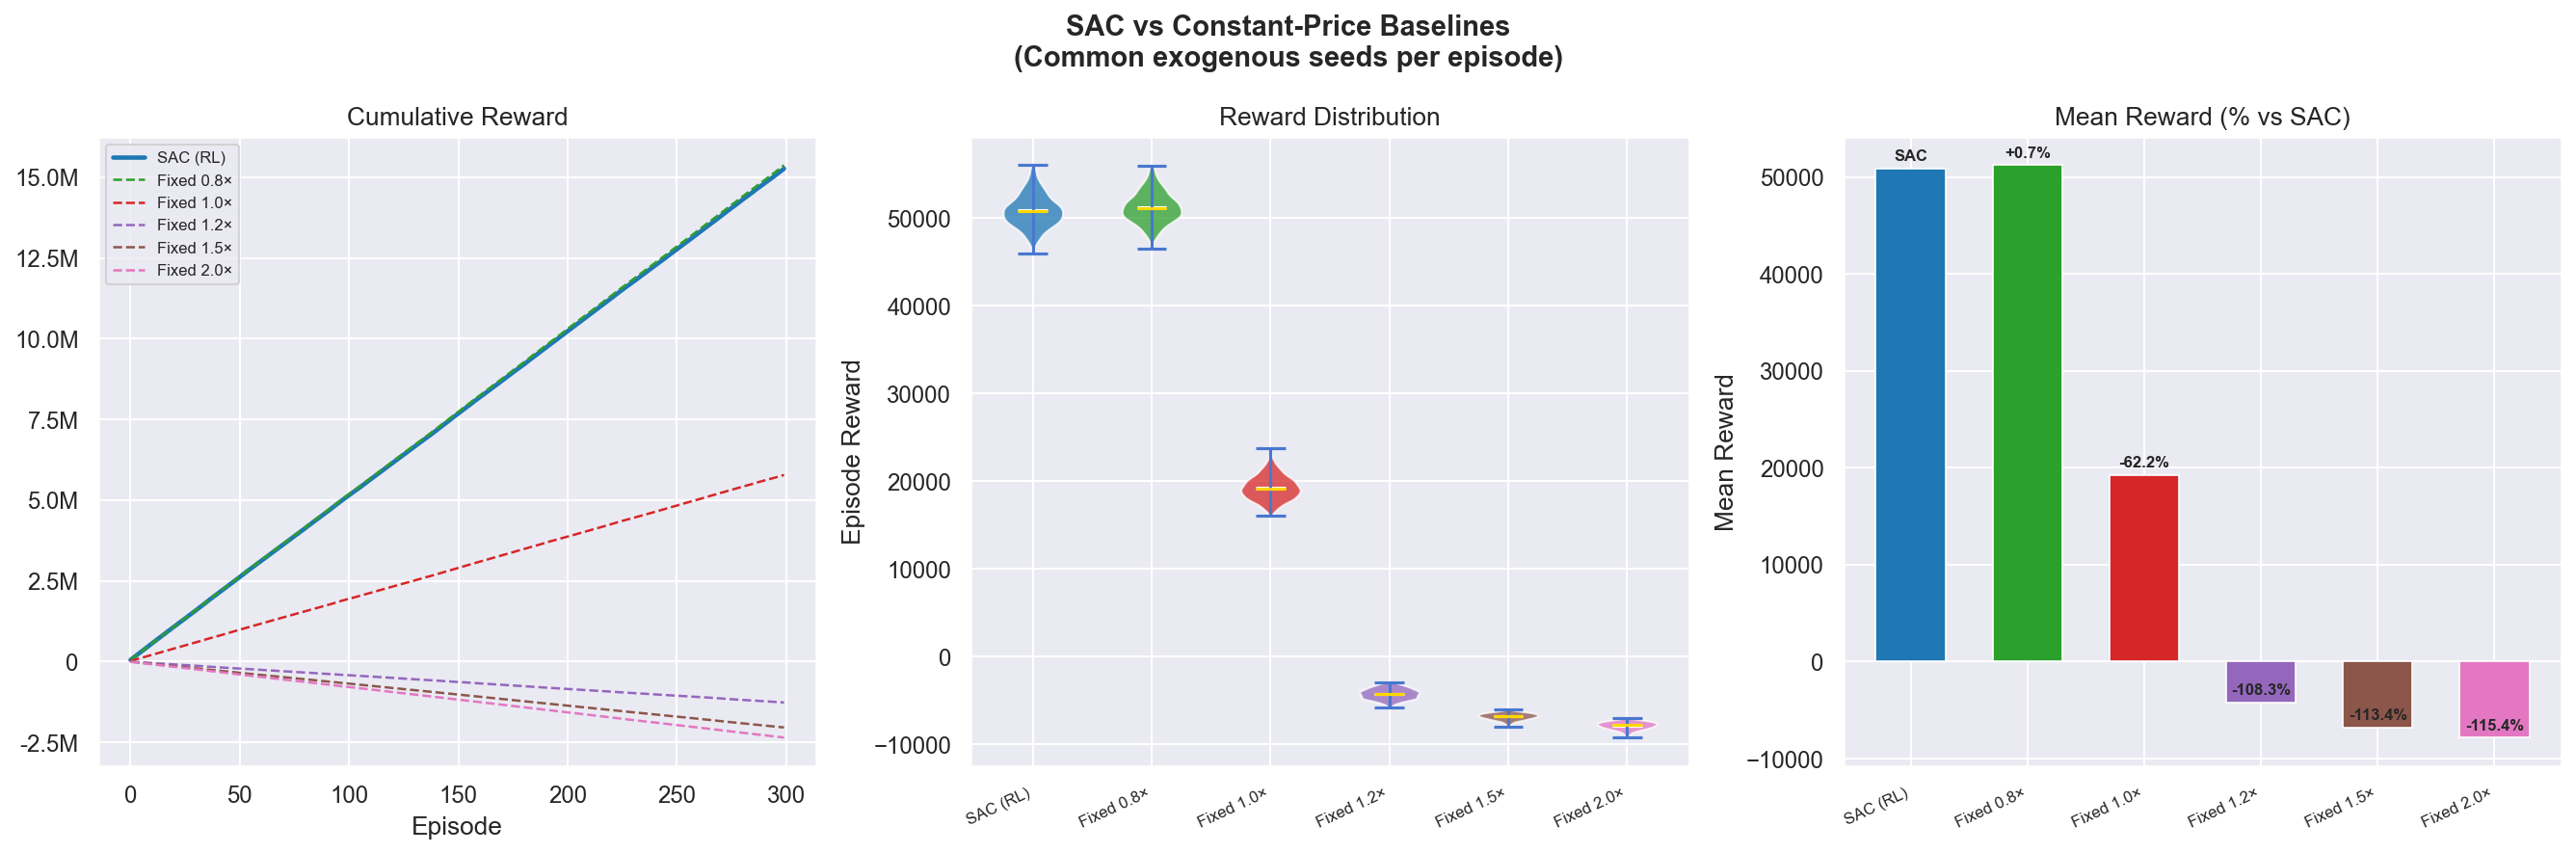
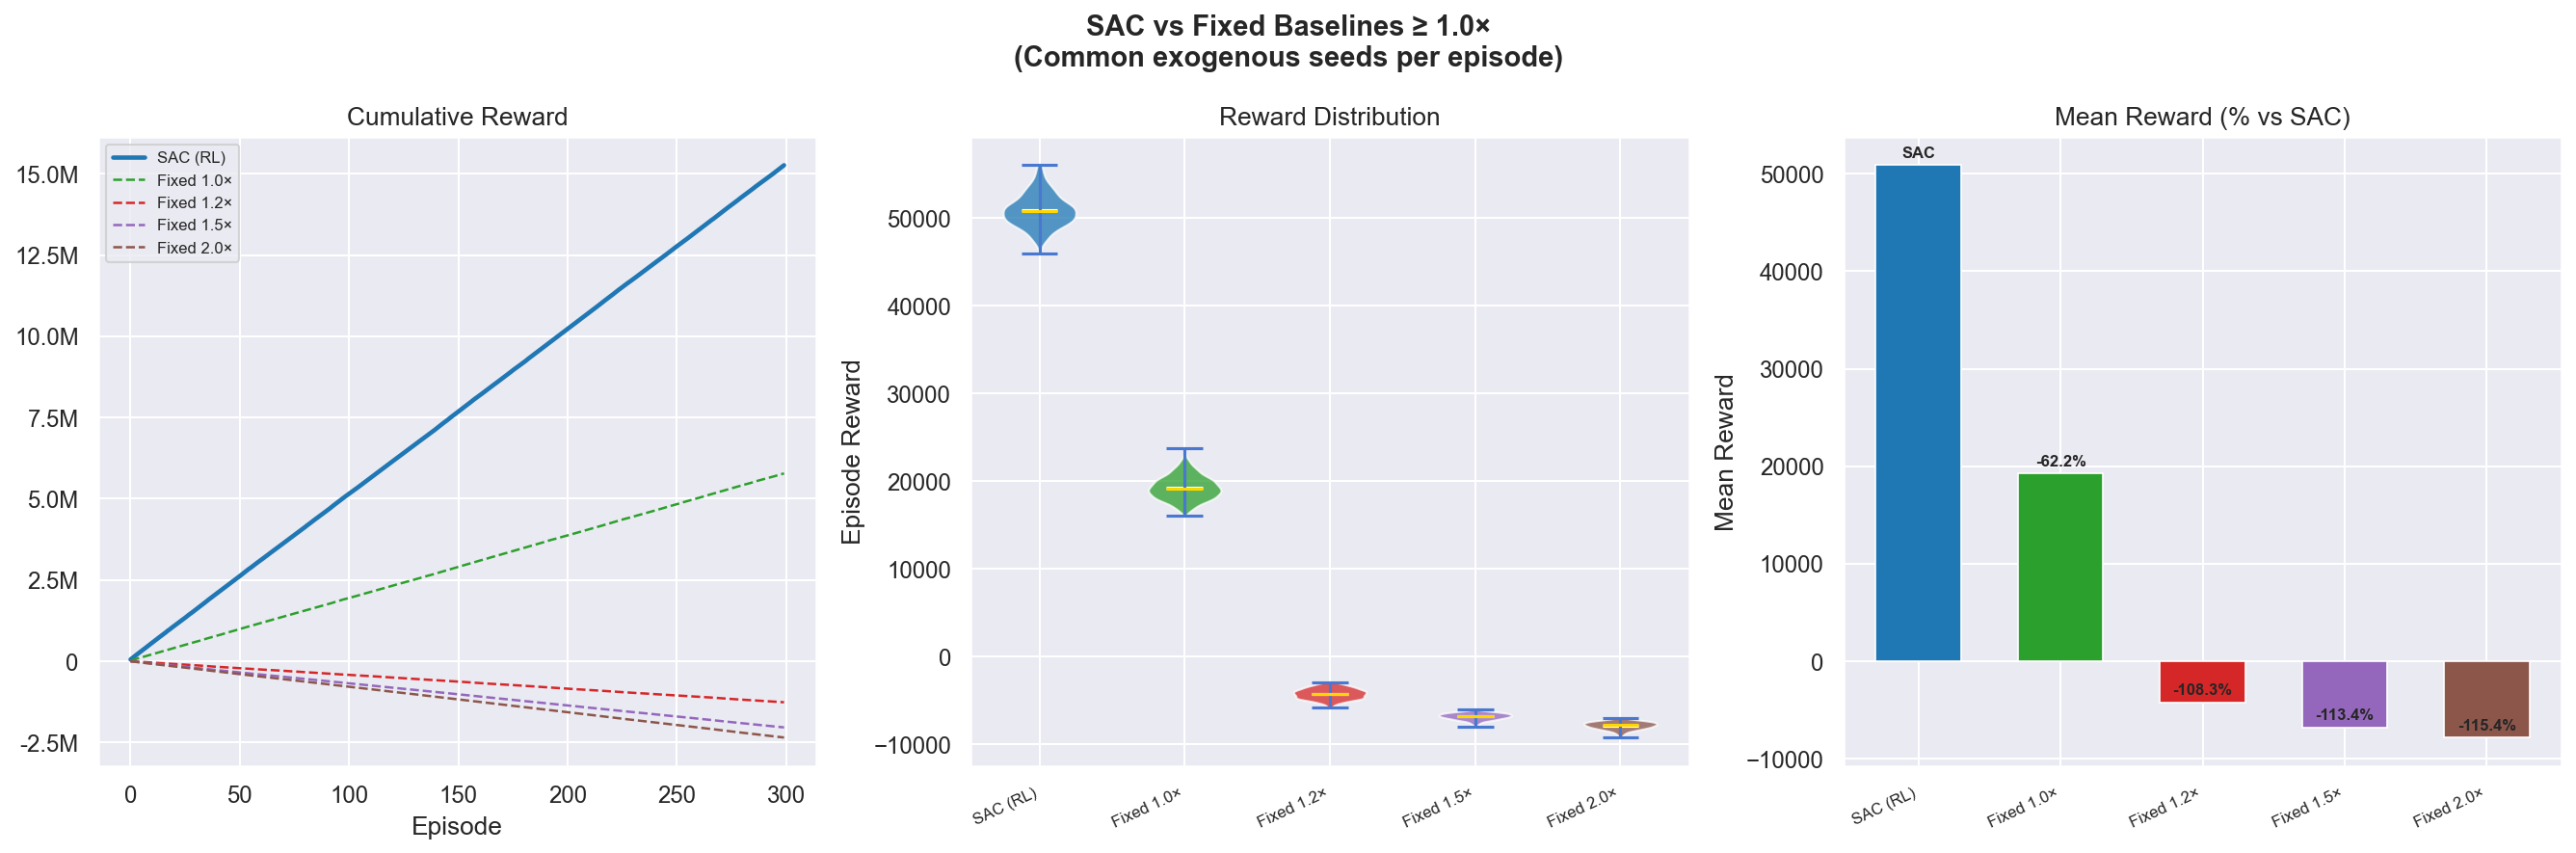
fix(benchmark): use 1.0x business reference

diff --git a/benchmark.py b/benchmark.py
@@ -55,6 +55,7 @@ def build_benchmark(
     checkpoint_path: str | None = None,
     checkpoint_updates: int | None = None,
     acceptance_floor: float = 0.60,
+    reference_label: str | None = None,
 ) -> dict:
     '''Summarise paired policy rollouts without hiding outcome trade-offs.'''
     strategies = {}
@@ -94,12 +95,20 @@ def build_benchmark(
 
     rl_label = next(label for label in results if 'SAC' in label)
     fixed_labels = [label for label in results if label != rl_label]
-    strongest_fixed = max(
-        fixed_labels,
-        key=lambda label: strategies[label]['objective_reward']['mean'],
-    )
+    if reference_label is None:
+        reference_label = next(
+            (label for label in fixed_labels if 'Fixed 1.0' in label),
+            max(
+                fixed_labels,
+                key=lambda label: strategies[label]['objective_reward']['mean'],
+            ),
+        )
+    if reference_label not in fixed_labels:
+        raise ValueError(
+            f'Business reference {reference_label!r} is not in benchmark results'
+        )
     rl = episode_metrics[rl_label]
-    baseline = episode_metrics[strongest_fixed]
+    baseline = episode_metrics[reference_label]
     reward_difference = rl['objective_reward'] - baseline['objective_reward']
 
     def _relative_percent(metric: str) -> float:
@@ -110,7 +119,7 @@ def build_benchmark(
 
     comparison = {
         'policy': rl_label,
-        'strongest_fixed_baseline': strongest_fixed,
+        'business_reference': reference_label,
         'paired_objective_reward_difference': _stats(reward_difference),
         'policy_win_rate': float(np.mean(reward_difference > 0.0)),
         'objective_reward_percent_difference': _relative_percent(
@@ -145,6 +154,12 @@ def build_benchmark(
                 'endogenous demand and supply trajectories.'
             ),
             'acceptance_floor': acceptance_floor,
+            'business_reference': reference_label,
+            'discount_baseline_policy': (
+                'Fixed prices below 1.0x are excluded from the published '
+                'comparison. The simulator reports gross revenue and has no '
+                'cost model for determining profit or loss.'
+            ),
         },
         'checkpoint': _checkpoint_metadata(
             checkpoint_path, checkpoint_updates
@@ -156,7 +171,7 @@ def build_benchmark(
             'torch': _package_version('torch'),
         },
         'strategies': strategies,
-        'comparison_to_strongest_fixed_baseline': comparison,
+        'comparison_to_business_reference': comparison,
         'interpretation': (
             'Reward is an engineered objective, not dollars or profit. '
             'Revenue and ride counts are simulated.'

diff --git a/tests/test_benchmark.py b/tests/test_benchmark.py
@@ -24,7 +24,9 @@ class BenchmarkTests(unittest.TestCase):
     def test_build_and_save_benchmark(self) -> None:
         results = {
             "SAC (RL)": [12.0, 18.0],
-            "Fixed 0.8x": [10.0, 10.0],
+            # Deliberately higher than 1.0x: an explicit business reference
+            # must not be replaced by a discounted policy with higher reward.
+            "Fixed 0.8x": [100.0, 100.0],
             "Fixed 1.0x": [15.0, 11.0],
         }
         detail = {
@@ -57,12 +59,13 @@ class BenchmarkTests(unittest.TestCase):
                 checkpoint_path=str(checkpoint),
                 checkpoint_updates=42,
                 acceptance_floor=0.60,
+                reference_label="Fixed 1.0x",
             )
 
-            comparison = summary["comparison_to_strongest_fixed_baseline"]
+            comparison = summary["comparison_to_business_reference"]
             self.assertEqual(comparison["policy"], "SAC (RL)")
             self.assertEqual(
-                comparison["strongest_fixed_baseline"], "Fixed 1.0x"
+                comparison["business_reference"], "Fixed 1.0x"
             )
             paired = comparison["paired_objective_reward_difference"]
             self.assertAlmostEqual(paired["mean"], 2.0)
@@ -116,6 +119,8 @@ class BenchmarkTests(unittest.TestCase):
         self.assertEqual(protocol["seed_end"], 501)
         self.assertTrue(protocol["deterministic_policy"])
         self.assertEqual(protocol["acceptance_floor"], 0.60)
+        self.assertEqual(protocol["business_reference"], "Fixed 1.0x")
+        self.assertIn("below 1.0x", protocol["discount_baseline_policy"])
         self.assertIn("Common exogenous RNG seeds", protocol["shared_randomness"])
 
         checkpoint_metadata = summary["checkpoint"]

diff --git a/evaluate.py b/evaluate.py
@@ -54,7 +54,11 @@ def compare_strategies(env, agent, prices=None, n_episodes=300, seed=7777):
     detail  : dict  {label: list of per-episode step dicts}
     """
     if prices is None:
-        prices = [0.8, 1.0, 1.2, 1.5, 2.0]
+        # Fixed 1.0x is the minimum admissible business reference. The
+        # simulator permits discounts below base fare, but those are excluded
+        # from the published comparison because no cost model is available to
+        # establish their commercial viability.
+        prices = [1.0, 1.2, 1.5, 2.0]
 
     results, detail = {}, {}
 

diff --git a/visualize.py b/visualize.py
@@ -233,7 +233,7 @@ def plot_strategy_comparison(results: dict, save_dir="results"):
               for i, l in enumerate(labels)}
 
     fig, axes = plt.subplots(1, 3, figsize=(18, 6))
-    fig.suptitle("SAC vs Constant-Price Baselines\n(Common exogenous seeds per episode)",
+    fig.suptitle("SAC vs Fixed Baselines ≥ 1.0×\n(Common exogenous seeds per episode)",
                  fontsize=14, fontweight="bold")
 
     # (1) Cumulative reward

diff --git a/config.py b/config.py
@@ -41,6 +41,7 @@ class Config:
     eval_episodes:  int   = 15
     benchmark_episodes: int = 300      # held-out policy comparison
     benchmark_seed: int = 7_777        # first common exogenous seed
+    benchmark_reference_price: float = 1.0  # minimum business reference
     save_freq:      int   = 500        # checkpoint every N episodes
 
     # ── Logging ───────────────────────────────────────────────────────────────

diff --git a/main.py b/main.py
@@ -49,6 +49,7 @@ def _save_benchmark(cfg, ckpt_path, agent, results, detail):
         seed=cfg.benchmark_seed,
         checkpoint_path=ckpt_path,
         checkpoint_updates=agent.updates,
+        reference_label=f'Fixed {cfg.benchmark_reference_price:.1f}×',
     )
     path = os.path.join(cfg.results_dir, 'benchmark.json')
     save_benchmark(summary, path)

diff --git a/README.md b/README.md
@@ -6,11 +6,12 @@ The project includes prioritized replay, automatic entropy tuning, paired
 baseline evaluation, machine-readable benchmark output, and six diagnostic
 plots.
 
-The most useful finding is a trade-off, not a benchmark victory: on 300 held-out
-scenario seeds, the tracked SAC checkpoint earns **1.80% more simulated gross
-revenue** than the strongest fixed-price baseline, but its engineered objective
-reward is **0.68% lower** and its aggregate acceptance is **3.91 percentage
-points lower**.
+Against the nominal fixed 1.0× business reference on 300 held-out scenario
+seeds, the tracked SAC checkpoint produces **23.03% more simulated gross
+revenue**, **44.48% more served rides**, and **18.10 percentage points higher
+aggregate acceptance**. Its engineered objective reward is **164.22% higher**.
+The SAC policy achieves this with an average 0.854× multiplier, so it remains a
+discounted policy rather than a strict no-discount production policy.
 
 > This is an educational, synthetic single-zone simulation. It uses no Uber
 > data, is not affiliated with Uber, and is not suitable for real pricing
@@ -23,25 +24,31 @@ The canonical benchmark evaluates one deterministic checkpoint for 300
 simulated days per strategy (144 ten-minute steps each). Every policy receives
 the same exogenous RNG seed sequence, 7777–8076. Actions still alter future
 demand and supply, so endogenous market trajectories correctly differ by
-policy.
+policy. Fixed-price comparisons start at 1.0×; discounted fixed baselines are
+excluded from the published business-reference comparison.
 
-| Metric, mean ± scenario SD | SAC | Fixed 0.8× |
+| Metric, mean ± scenario SD | SAC | Fixed 1.0× |
 |---|---:|---:|
-| Engineered objective reward | 50,873 ± 1,843 | **51,223 ± 1,730** |
-| Simulated gross revenue | **$38,111 ± $1,427** | $37,435 ± $1,299 |
-| Aggregate acceptance | 58.80% | **62.71%** |
-| Average price multiplier | 0.854× | 0.800× |
-| Simulated rides served | 3,730 ± 139 | **3,899 ± 135** |
-| Steps meeting the 60% acceptance target | 3.15% | **100.00%** |
+| Engineered objective reward | **50,873 ± 1,843** | 19,254 ± 1,331 |
+| Simulated gross revenue | **$38,111 ± $1,427** | $30,977 ± $1,767 |
+| Aggregate acceptance | **58.80%** | 40.70% |
+| Average price multiplier | 0.854× | 1.000× |
+| Simulated rides served | **3,730 ± 139** | 2,581 ± 147 |
+| Steps meeting the 60% acceptance target | **3.15%** | 0.00% |
 
-The paired SAC-minus-baseline reward difference is **−350.67**, with a 95%
-interval of **[−382.77, −318.56]** across the 300 scenario pairs. SAC wins 12%
-of those pairs. Relative to fixed 0.8×, SAC changes:
+The paired SAC-minus-reference reward difference is **+31,618.88**, with a 95%
+interval of **[31,447.20, 31,790.56]** across the 300 scenario pairs. SAC wins
+100% of those pairs. Relative to fixed 1.0×, SAC changes:
 
-- simulated gross revenue by **+1.804%**;
-- objective reward by **−0.685%**;
-- served rides by **−4.353%**;
-- aggregate acceptance by **−3.914 percentage points**.
+- simulated gross revenue by **+23.028%**;
+- engineered objective reward by **+164.222%**;
+- served rides by **+44.483%**;
+- aggregate acceptance by **+18.101 percentage points**.
+
+The simulator has no cost, driver-payout, or profit model. It therefore cannot
+prove that a sub-1.0× price causes a company loss, or that either policy is
+profitable. A strict business rule requiring every action to be at least 1.0×
+would require changing the action bound and retraining SAC.
 
 These values measure scenario variation for one trained checkpoint, not
 robustness across multiple training seeds. Full precision, software versions,
@@ -218,8 +225,9 @@ uber_rl/
   drivers, costs, or regulations.
 - Ride counts are continuous quantities; “revenue” is simulated gross fare,
   with no driver payouts or operating costs.
-- The current checkpoint mostly prices near the lower action bound. It does not
-  establish strong surge responsiveness.
+- The current checkpoint averages 0.854× and mostly prices near the lower action
+  bound. It is not compliant with a strict minimum-price rule of 1.0× and does
+  not establish strong surge responsiveness.
 - The benchmark uses one training run and a small family of fixed baselines; it
   does not establish training-seed robustness or optimality.
 - Aggregate acceptance is an access proxy, not demographic or individual
@@ -228,6 +236,6 @@ uber_rl/
   optimizer, replay-buffer, and RNG state are not stored.
 - Load only trusted PyTorch checkpoints.
 
-The clearest next experiment is a reward/acceptance redesign followed by
-multiple training seeds and comparison against tuned fixed and rule-based
-demand/supply policies.
+The clearest next experiment is to set the action floor to 1.0×, redesign the
+reward with explicit business costs, retrain across multiple seeds, and compare
+against tuned fixed and rule-based demand/supply policies.